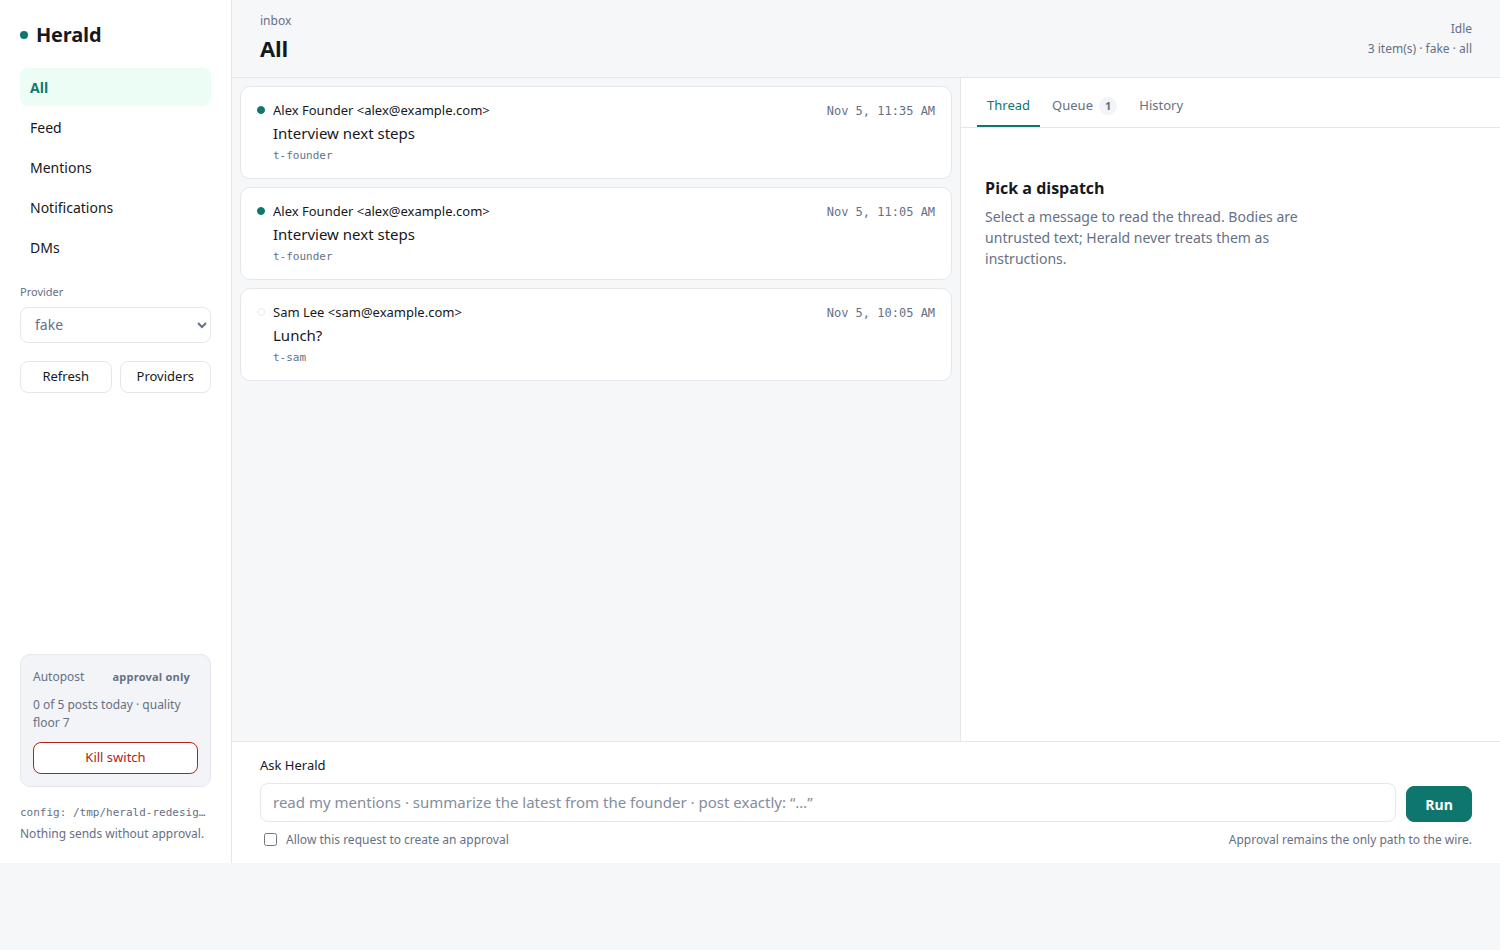
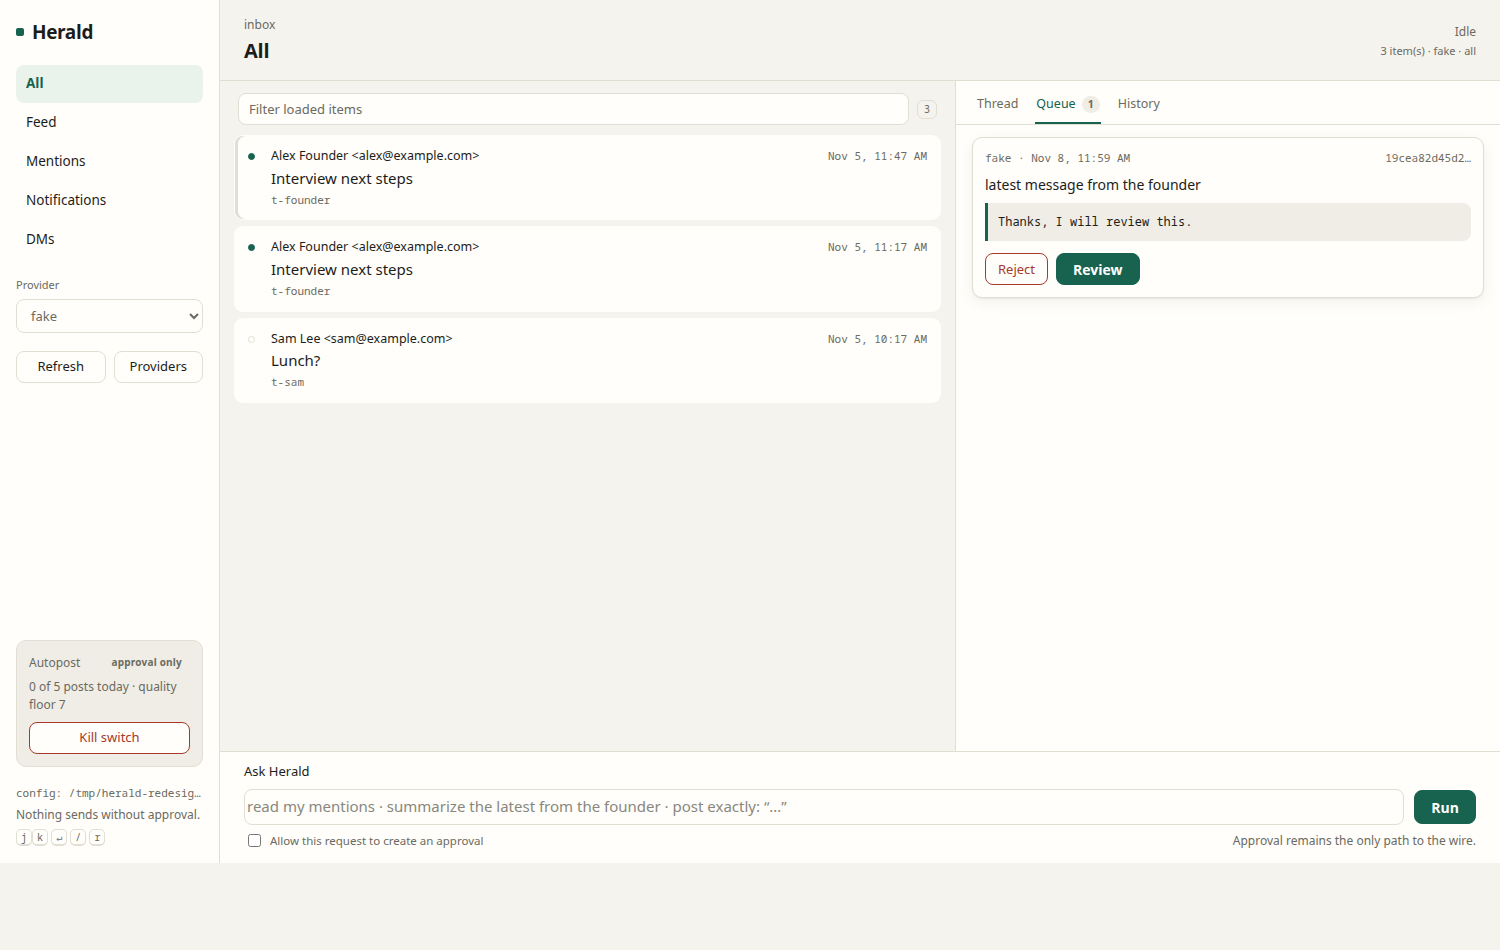
style(ui): warm palette and keyboard flow
Warmer neutrals, Noto Sans, denser rows, a client-side filter, and keyboard
navigation (j/k, Enter, /, r, q, h). The queue opens on load when approvals are
waiting. Refresh the docs screenshot.

diff --git a/apps/agent/src/ui/ui.js b/apps/agent/src/ui/ui.js
@@ -9,6 +9,9 @@
     selected: null,
     approvals: [],
     history: [],
+    filtered: [],
+    filter: "",
+    cursor: 0,
     tab: "thread",
     busy: false,
     pendingApproval: null,
@@ -112,24 +115,44 @@
     node.replaceChildren(el("div", "list-empty", message));
   }
 
+  function applyFilter() {
+    const needle = state.filter.trim().toLowerCase();
+    state.filtered = needle
+      ? state.items.filter((item) =>
+          [item.sender, item.subject, item.thread_id, item.id]
+            .filter(Boolean)
+            .join(" ")
+            .toLowerCase()
+            .includes(needle),
+        )
+      : state.items.slice();
+    if (state.cursor >= state.filtered.length) state.cursor = 0;
+    $("list-count").textContent = needle
+      ? `${state.filtered.length}/${state.items.length}`
+      : String(state.items.length);
+  }
+
   function renderItems() {
     const list = $("list");
     list.replaceChildren();
-    if (!state.items.length) {
-      if (state.scope === "dms") {
+    applyFilter();
+    if (!state.filtered.length) {
+      if (state.items.length) {
+        emptyList("Nothing matches this filter.");
+      } else if (state.scope === "dms") {
         emptyList("No DMs. X renders DMs in an embedded app Herald does not read yet.");
       } else {
         emptyList("Nothing on this surface.");
       }
       return;
     }
-    state.items.forEach((item, index) => {
+    state.filtered.forEach((item, index) => {
       const button = el("button", "item");
       button.type = "button";
-      button.style.animationDelay = `${Math.min(index * 22, 220)}ms`;
       button.dataset.id = item.id;
       if (item.unread) button.classList.add("is-unread");
       if (state.selected === item.id) button.classList.add("is-selected");
+      if (index === state.cursor) button.classList.add("is-cursor");
 
       button.append(el("span", "dot"));
       const body = el("span");
@@ -141,9 +164,27 @@
       body.append(meta, el("span", "item-subject", item.subject || "(no subject)"));
       body.append(el("span", "item-thread", item.thread_id || item.id));
       button.append(body);
-      button.addEventListener("click", () => openThread(item));
+      button.addEventListener("click", () => {
+        state.cursor = index;
+        openThread(item);
+      });
       list.append(button);
     });
+  }
+
+  function moveCursor(delta) {
+    if (!state.filtered.length) return;
+    const next = (state.cursor + delta + state.filtered.length) % state.filtered.length;
+    state.cursor = next;
+    renderItems();
+    document.querySelector(".item.is-cursor")?.scrollIntoView({ block: "nearest" });
+  }
+
+  function refreshAll() {
+    loadInbox();
+    loadApprovals();
+    loadAutopost();
+    loadHistory();
   }
 
   function threadError(message) {
@@ -470,11 +511,63 @@
       loadAutopost();
     });
 
-    $("refresh").addEventListener("click", () => {
-      loadInbox();
-      loadApprovals();
-      loadAutopost();
-      loadHistory();
+    $("refresh").addEventListener("click", refreshAll);
+
+    $("filter").addEventListener("input", (event) => {
+      state.filter = event.target.value;
+      state.cursor = 0;
+      renderItems();
+    });
+
+    $("filter").addEventListener("keydown", (event) => {
+      if (event.key === "Escape") {
+        event.target.value = "";
+        state.filter = "";
+        state.cursor = 0;
+        renderItems();
+        event.target.blur();
+      }
+    });
+
+    document.addEventListener("keydown", (event) => {
+      const tag = event.target.tagName;
+      if (["INPUT", "TEXTAREA", "SELECT"].includes(tag) || document.querySelector("dialog[open]")) {
+        return;
+      }
+      switch (event.key) {
+        case "j":
+          moveCursor(1);
+          event.preventDefault();
+          break;
+        case "k":
+          moveCursor(-1);
+          event.preventDefault();
+          break;
+        case "Enter": {
+          const item = state.filtered[state.cursor];
+          if (item) openThread(item);
+          event.preventDefault();
+          break;
+        }
+        case "r":
+          refreshAll();
+          break;
+        case "q":
+          switchTab("queue");
+          break;
+        case "h":
+          switchTab("history");
+          break;
+        case "t":
+          switchTab("thread");
+          break;
+        case "/":
+          $("filter").focus();
+          event.preventDefault();
+          break;
+        default:
+          break;
+      }
     });
 
     $("providers").addEventListener("click", showProviders);
@@ -533,6 +626,8 @@
     } else if (params.get("tab") === "history") {
       switchTab("history");
     } else if (params.get("tab") === "queue") {
+      switchTab("queue");
+    } else if (state.approvals.length) {
       switchTab("queue");
     } else {
       switchTab("thread");

diff --git a/apps/agent/src/ui/ui.css b/apps/agent/src/ui/ui.css
@@ -1,19 +1,19 @@
 /* Herald desk — minimal utility UI. Near-white canvas, white surfaces,
    one teal accent, thin neutral borders, system sans. */
 :root {
-  --bg: #f6f7f8;
-  --surface: #ffffff;
-  --surface-2: #f2f4f7;
-  --ink: #16181d;
-  --muted: #667085;
-  --border: #e4e7ec;
-  --accent: #0f766e;
-  --accent-soft: #ecfdf5;
-  --danger: #b42318;
-  --radius: 12px;
+  --bg: #f5f3ee;
+  --surface: #fffefa;
+  --surface-2: #efede5;
+  --ink: #1c1d1a;
+  --muted: #6b6a61;
+  --border: #e1ded3;
+  --accent: #17634f;
+  --accent-soft: #eaf2ec;
+  --danger: #a63a2b;
+  --radius: 10px;
   --warn: #b54708;
-  --sans: ui-sans-serif, system-ui, -apple-system, "Segoe UI", Roboto, "Helvetica Neue", Arial, sans-serif;
-  --mono: ui-monospace, SFMono-Regular, Menlo, Consolas, monospace;
+  --sans: "Noto Sans", ui-sans-serif, system-ui, -apple-system, "Segoe UI", Roboto, Arial, sans-serif;
+  --mono: "Noto Sans Mono", "DejaVu Sans Mono", ui-monospace, SFMono-Regular, Menlo, Consolas, monospace;
   --shadow: 0 1px 2px rgba(16, 24, 40, 0.06), 0 4px 16px rgba(16, 24, 40, 0.06);
 }
 
@@ -591,4 +591,112 @@ input:focus-visible {
 .badge {
   text-transform: none;
   letter-spacing: 0.02em;
+}
+
+
+/* ---- taste pass: density, warmth, keyboard affordances ---- */
+body { grid-template-columns: 220px minmax(0, 1fr); }
+.rail { padding: 18px 16px; gap: 18px; }
+.masthead h1 { font-size: 19px; letter-spacing: -0.02em; font-weight: 600; }
+.masthead h1::before { background: var(--accent); width: 8px; height: 8px; border-radius: 2px; }
+.scopes { gap: 1px; }
+.scope {
+  height: 36px;
+  padding: 0 10px;
+  border-radius: 8px;
+  font-size: 13.5px;
+  font-weight: 450;
+}
+.scope.is-active { background: var(--accent-soft); color: var(--accent); font-weight: 600; }
+.scope em { font-size: 11px; }
+.field span { font-size: 11px; }
+.field select { height: 34px; font-size: 13px; }
+.rail-actions .ghost { flex: 1; }
+.rail-foot { gap: 4px; }
+.rail-foot .tiny:last-child { line-height: 1.45; }
+.autopost { padding: 12px; }
+.autopost p { margin: 6px 0 9px; font-size: 12px; line-height: 1.45; }
+.badge { font-size: 10px; padding: 2px 8px; }
+
+.desk-head { padding: 16px 24px 14px; }
+.desk-head h2 { font-size: 20px; }
+.desk-meta .tiny { font-size: 11px; }
+
+.list-tools {
+  display: flex;
+  align-items: center;
+  gap: 8px;
+  padding: 12px 18px 0;
+}
+.filter {
+  flex: 1;
+  height: 32px;
+  padding: 0 10px;
+  border: 1px solid var(--border);
+  border-radius: 8px;
+  background: var(--surface);
+  font-size: 13px;
+}
+.filter::placeholder { color: var(--muted); }
+.shortcut {
+  border: 1px solid var(--border);
+  border-radius: 6px;
+  padding: 1px 6px;
+  font-family: var(--mono);
+  font-size: 10px;
+  color: var(--muted);
+  white-space: nowrap;
+}
+
+.list { padding: 10px 14px 18px; gap: 6px; }
+.item {
+  padding: 11px 13px;
+  border-radius: 9px;
+  border: 1px solid transparent;
+  background: var(--surface);
+  gap: 9px;
+  grid-template-columns: 14px minmax(0, 1fr);
+}
+.item:hover { background: var(--surface); border-color: var(--border); }
+.item.is-selected { background: var(--accent-soft); border-color: var(--accent); }
+.item.is-cursor { box-shadow: inset 3px 0 0 var(--border); }
+.item.is-selected.is-cursor { box-shadow: inset 3px 0 0 var(--accent); }
+.item .dot { width: 7px; height: 7px; margin-top: 6px; }
+.item-sender { font-size: 12.5px; }
+.item-time { font-size: 11px; }
+.item-subject { font-size: 15px; margin-top: 2px; -webkit-line-clamp: 1; }
+.item-thread { font-size: 11px; margin-top: 3px; }
+
+.tabs { padding: 9px 20px 0; gap: 16px; }
+.tab { font-size: 12.5px; padding: 5px 1px 8px; }
+.tab em { font-size: 10.5px; }
+.thread-head { padding: 14px 20px 10px; }
+.thread-head h3 { font-size: 17px; }
+.message { padding: 12px 20px; }
+.message-meta { font-size: 11.5px; }
+.message-body { font-size: 13.5px; line-height: 1.55; margin-top: 5px; }
+.queue { padding: 12px 16px 20px; gap: 10px; }
+.approval { padding: 12px; }
+.approval-body { font-size: 12px; }
+
+.ask { padding: 10px 24px 13px; }
+.ask-row { align-items: center; }
+.ask textarea { font-size: 15px; padding: 6px 2px; }
+.run { height: 34px; padding: 0 16px; }
+.ask-foot { margin-top: 6px; }
+.toggle { font-size: 11.5px; }
+
+.empty { padding: 34px 20px; }
+.empty h3 { font-size: 15px; margin: 0 0 5px; }
+.empty p { font-size: 12.5px; max-width: 38ch; }
+
+kbd {
+  font-family: var(--mono);
+  font-size: 10px;
+  border: 1px solid var(--border);
+  border-bottom-width: 2px;
+  border-radius: 5px;
+  padding: 0 4px;
+  color: var(--muted);
+  background: var(--surface);
 }

diff --git a/apps/agent/src/ui/index.html b/apps/agent/src/ui/index.html
@@ -50,6 +50,9 @@
       <footer class="rail-foot">
         <span id="cfg-path">config: …</span>
         <span class="tiny">Nothing sends without approval.</span>
+        <span class="tiny" title="j/k move · Enter open · / filter · r refresh · q queue">
+          <kbd>j</kbd><kbd>k</kbd> <kbd>↵</kbd> <kbd>/</kbd> <kbd>r</kbd>
+        </span>
       </footer>
     </aside>
 
@@ -67,6 +70,17 @@
 
       <div class="columns">
         <section class="list-pane" aria-label="Messages">
+          <div class="list-tools">
+            <input
+              id="filter"
+              class="filter"
+              type="search"
+              placeholder="Filter loaded items"
+              aria-label="Filter loaded items"
+              autocomplete="off"
+            />
+            <span class="shortcut" id="list-count">0</span>
+          </div>
           <div id="list" class="list" aria-live="polite"></div>
         </section>
 

diff --git a/docs/ui.md b/docs/ui.md
@@ -28,10 +28,12 @@ URL without it is refused. `--port 0` picks a free port. `Ctrl+C` stops it.
 | Ask | Runs `herald ask`; “Allow this request to create an approval” maps to `--enable-send`. |
 | Autopost | Shows the rails and writes the kill switch (`herald autopost off`). |
 | Providers | Health table from `herald providers` (X launches a browser; expect a delay). |
+| Filter | Client-side filter over the loaded list; `/` focuses it, `Esc` clears. |
 | History | Recent actions with state. `uncertain` sends expose Reconcile, which runs `herald reconcile` and never retries. |
 
-Deep links: `/?token=…&provider=x&scope=feed&thread=mention:123` and
-`&tab=queue`.
+Keyboard: `j`/`k` move, `Enter` opens, `/` filters, `r` refreshes, `q` queue,
+`h` history, `t` thread. Deep links: `/?token=…&provider=x&scope=feed&thread=mention:123`
+and `&tab=queue`. When approvals are waiting, the queue opens on load.
 
 ## Security properties
 

diff --git a/CHANGELOG.md b/CHANGELOG.md
@@ -49,6 +49,12 @@ not as released behaviour until the canary in the milestone handoff passes.
 
 ### Changed
 
+- `herald ui` gets a warmer, denser layout, a client-side filter, keyboard
+  navigation (`j`/`k`, `Enter`, `/`, `r`, `q`, `h`), and opens the queue on load
+  when approvals are waiting.
+- The managed backend finds `llama-server` on `PATH`, so a normal install works
+  without `HERALD_LLAMA_SERVER`.
+
 - `herald ui` uses a quieter neutral interface: system sans, white surfaces, one
   teal accent, no textures or newspaper rules. Selected threads highlight one
   item, action states are colour-coded, and the autopost copy is plain English.
